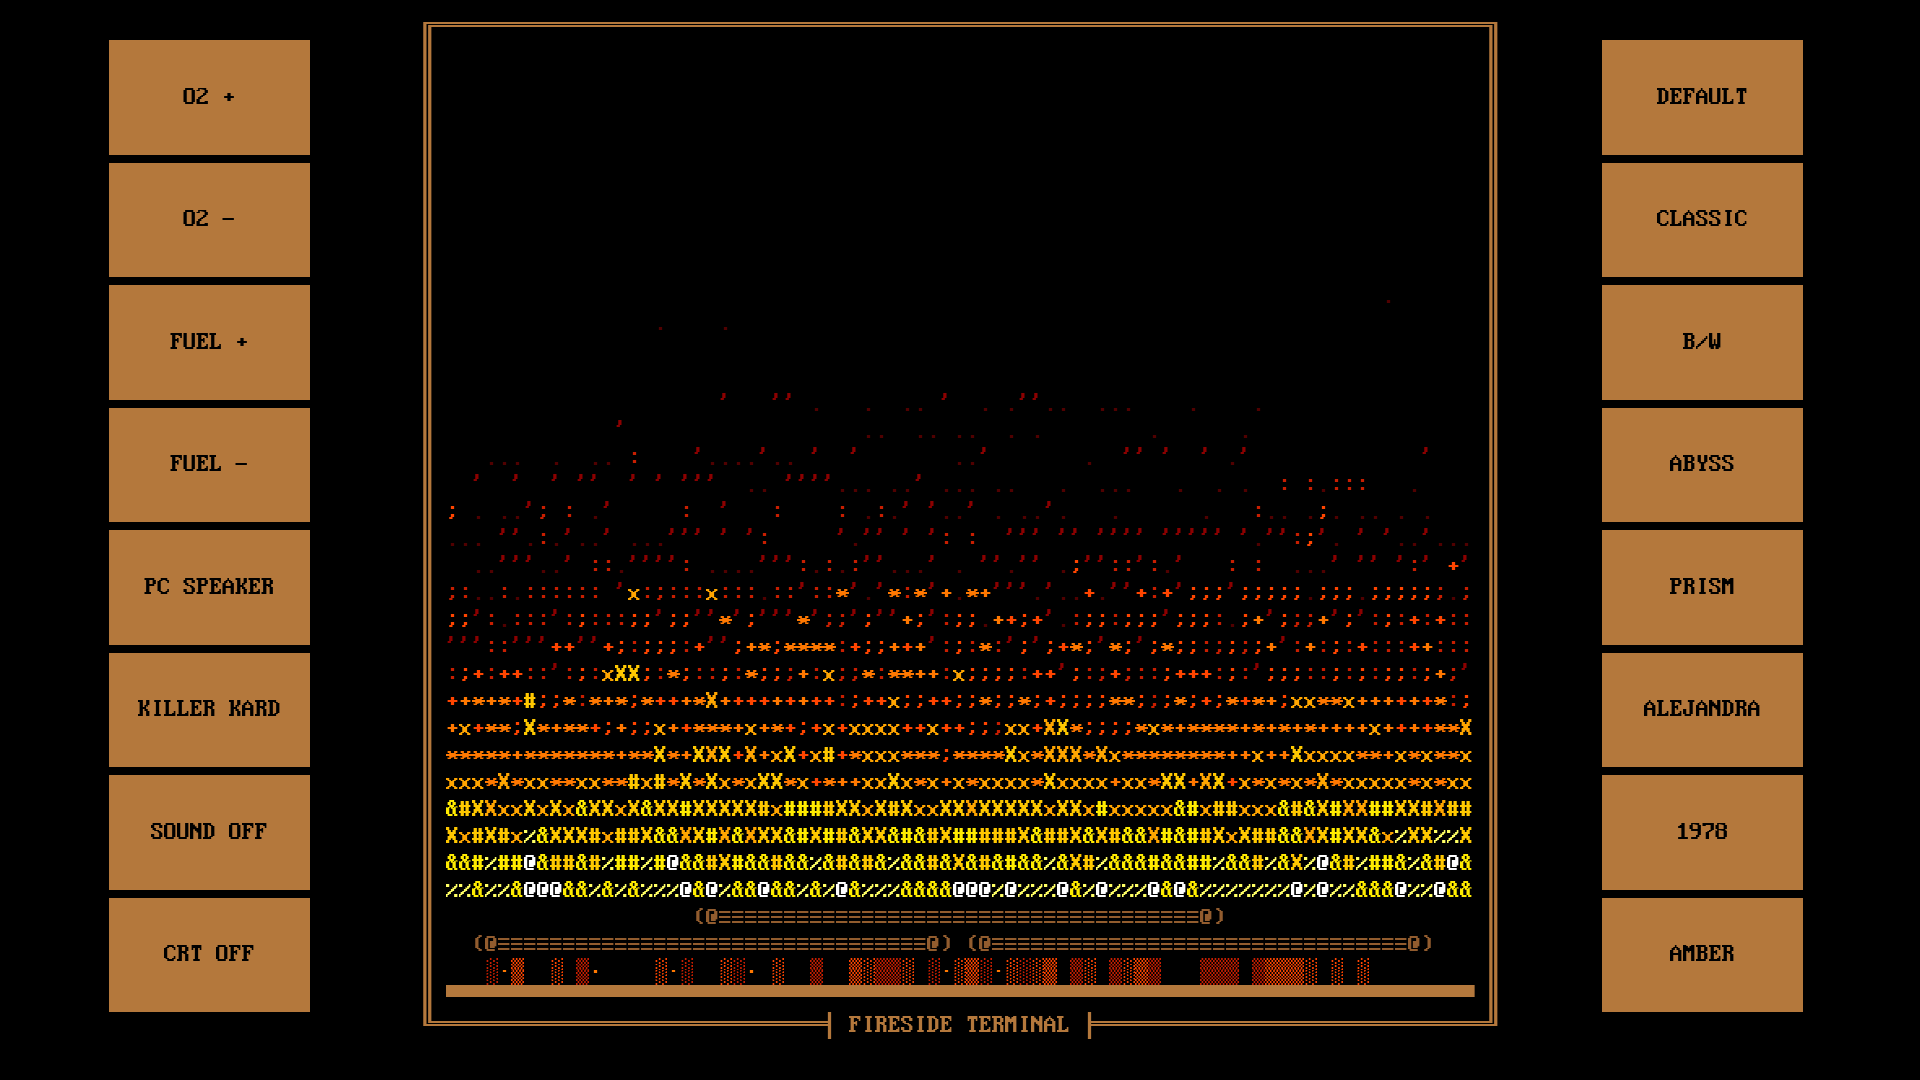
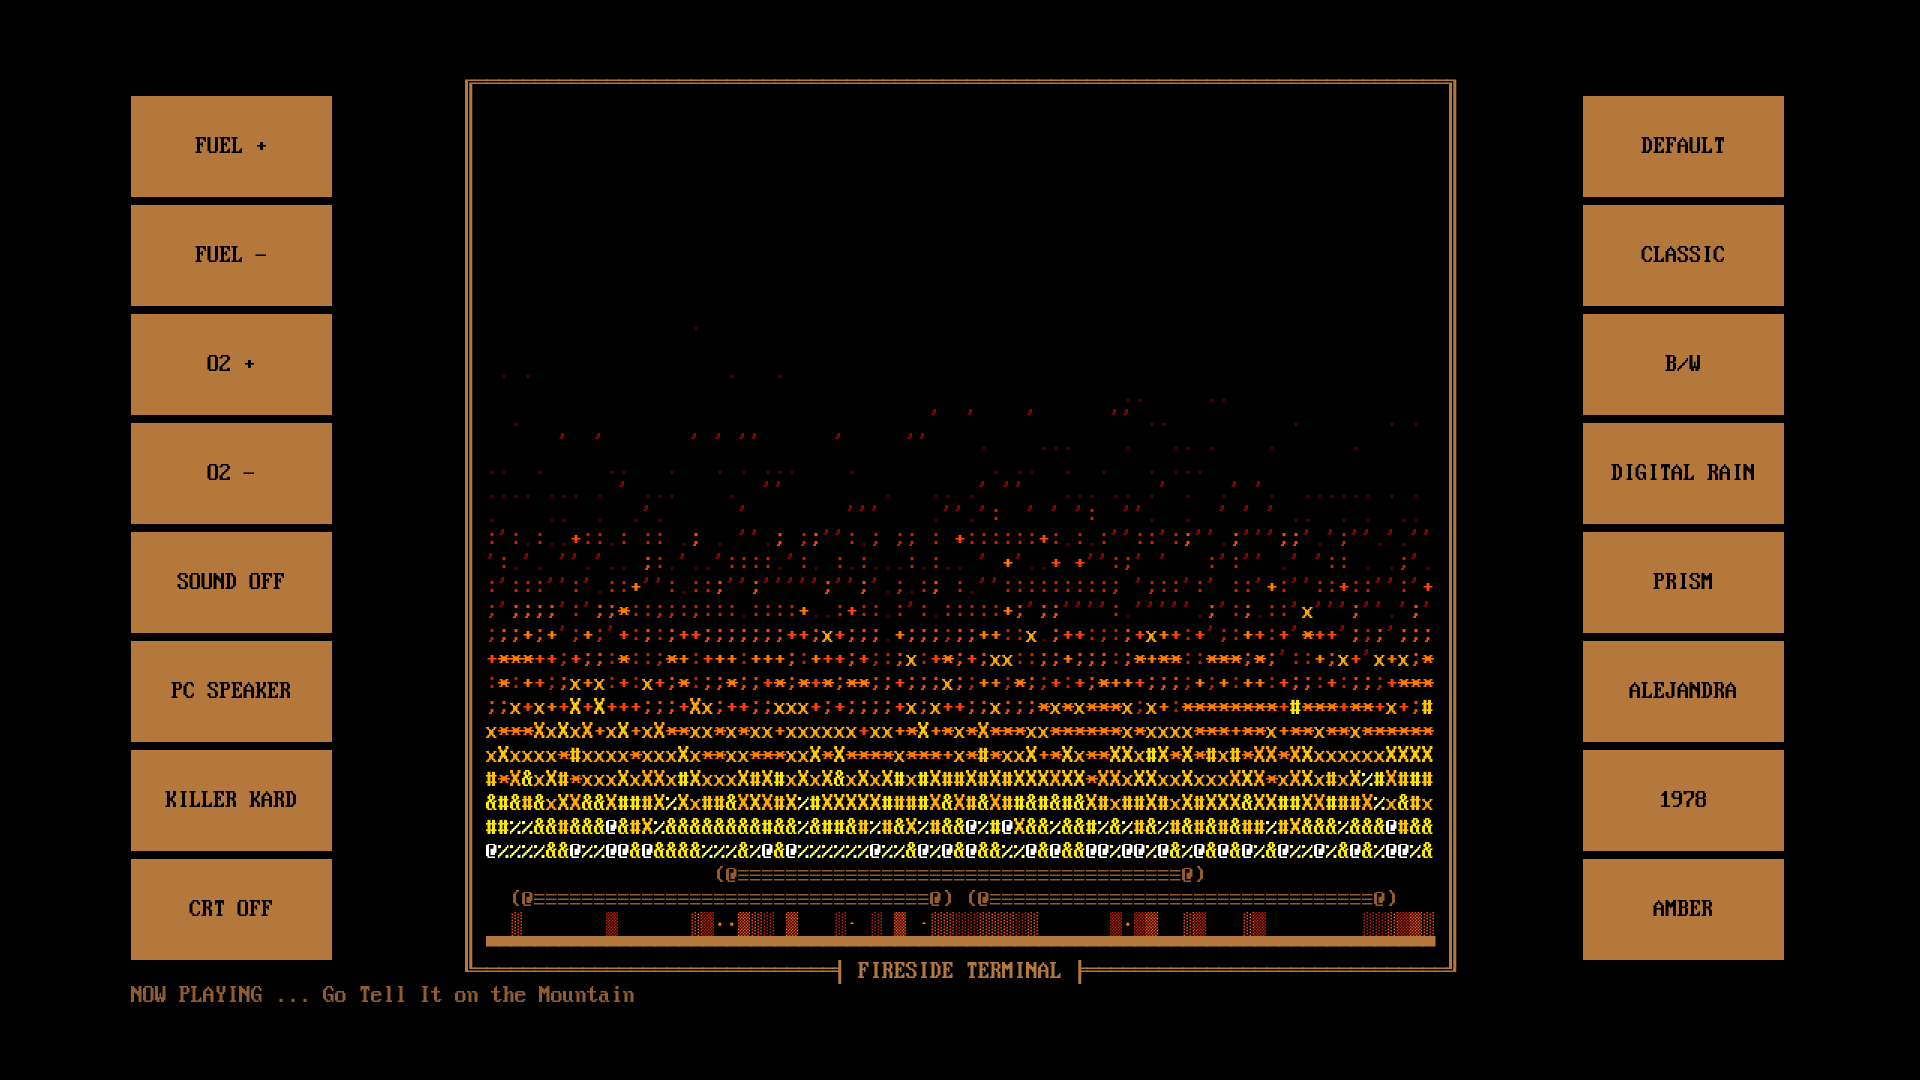
Fireside Terminal screenshots for 1.1.0
Replace the 1.0.2 shots (ABYSS, old button order, no HUD) with the 1.1.0
desktop-build captures: DEFAULT with the NOW PLAYING readout, CLASSIC, B/W,
plus DIGITAL RAIN under the CRT filter and the TEX.SYS SETUP dialog for the
optional 80T87 THERMAL EXPANSION.

Changed region(s): [[0.0312, 0.0, 0.7812, 0.9778], [0.8125, 0.0306, 0.9375, 0.9472]]

diff --git a/index.html b/index.html
@@ -246,6 +246,14 @@
         <img src="assets/palette-bw.png" alt="Black and white fire theme">
         <figcaption>B/W — stark monochrome</figcaption>
       </figure>
+      <figure>
+        <img src="assets/digital-rain-crt.jpg" alt="Digital Rain theme under the CRT filter">
+        <figcaption>DIGITAL RAIN + CRT — 80T87 THERMAL EXPANSION</figcaption>
+      </figure>
+      <figure>
+        <img src="assets/tex-setup.png" alt="TEX.SYS SETUP dialog offering the 80T87 THERMAL EXPANSION">
+        <figcaption>TEX.SYS SETUP — the optional one-time upgrade</figcaption>
+      </figure>
     </div>
   </section>
 
